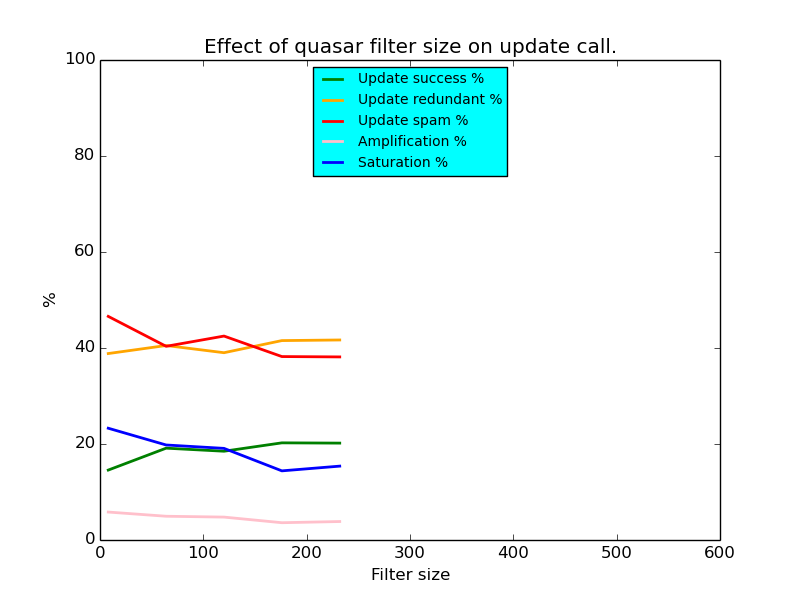
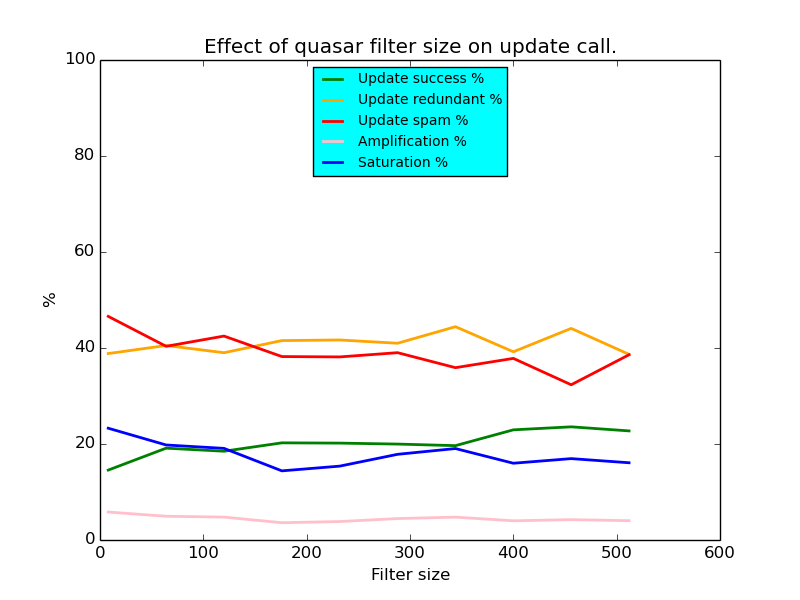
updated quasar refresh and filter test plots

diff --git a/benchmark/filterupdates_quasar_size_plot.py b/benchmark/filterupdates_quasar_size_plot.py
@@ -21,11 +21,11 @@ samples = [
     json.load(open("benchmark/filterupdates_quasar_size_c.json", "r")),
     json.load(open("benchmark/filterupdates_quasar_size_d.json", "r")),
     json.load(open("benchmark/filterupdates_quasar_size_e.json", "r")),
-#   json.load(open("benchmark/filterupdates_quasar_size_f.json", "r")),
-#   json.load(open("benchmark/filterupdates_quasar_size_g.json", "r")),
-#   json.load(open("benchmark/filterupdates_quasar_size_h.json", "r")),
-#   json.load(open("benchmark/filterupdates_quasar_size_i.json", "r")),
-#   json.load(open("benchmark/filterupdates_quasar_size_j.json", "r")),
+    json.load(open("benchmark/filterupdates_quasar_size_f.json", "r")),
+    json.load(open("benchmark/filterupdates_quasar_size_g.json", "r")),
+    json.load(open("benchmark/filterupdates_quasar_size_h.json", "r")),
+    json.load(open("benchmark/filterupdates_quasar_size_i.json", "r")),
+    json.load(open("benchmark/filterupdates_quasar_size_j.json", "r")),
 ]
 
 

diff --git a/benchmark/filterupdates_quasar_refresh_plot.py b/benchmark/filterupdates_quasar_refresh_plot.py
@@ -22,10 +22,10 @@ samples = [
     json.load(open("benchmark/filterupdates_quasar_refresh_d.json", "r")),
     json.load(open("benchmark/filterupdates_quasar_refresh_e.json", "r")),
     json.load(open("benchmark/filterupdates_quasar_refresh_f.json", "r")),
-#   json.load(open("benchmark/filterupdates_quasar_refresh_g.json", "r")),
-#   json.load(open("benchmark/filterupdates_quasar_refresh_h.json", "r")),
-#   json.load(open("benchmark/filterupdates_quasar_refresh_i.json", "r")),
-#   json.load(open("benchmark/filterupdates_quasar_refresh_j.json", "r")),
+    json.load(open("benchmark/filterupdates_quasar_refresh_g.json", "r")),
+    json.load(open("benchmark/filterupdates_quasar_refresh_h.json", "r")),
+    json.load(open("benchmark/filterupdates_quasar_refresh_i.json", "r")),
+    json.load(open("benchmark/filterupdates_quasar_refresh_j.json", "r")),
 ]
 
 

diff --git a/benchmark.md b/benchmark.md
@@ -156,7 +156,8 @@ Result normalization:
 
 ### Interpretation / Observations
 
-No conclusion could be made.
+The tested subscription rate is not enough to saturate the quasar attenuated
+bloom filters?
 
 
 
